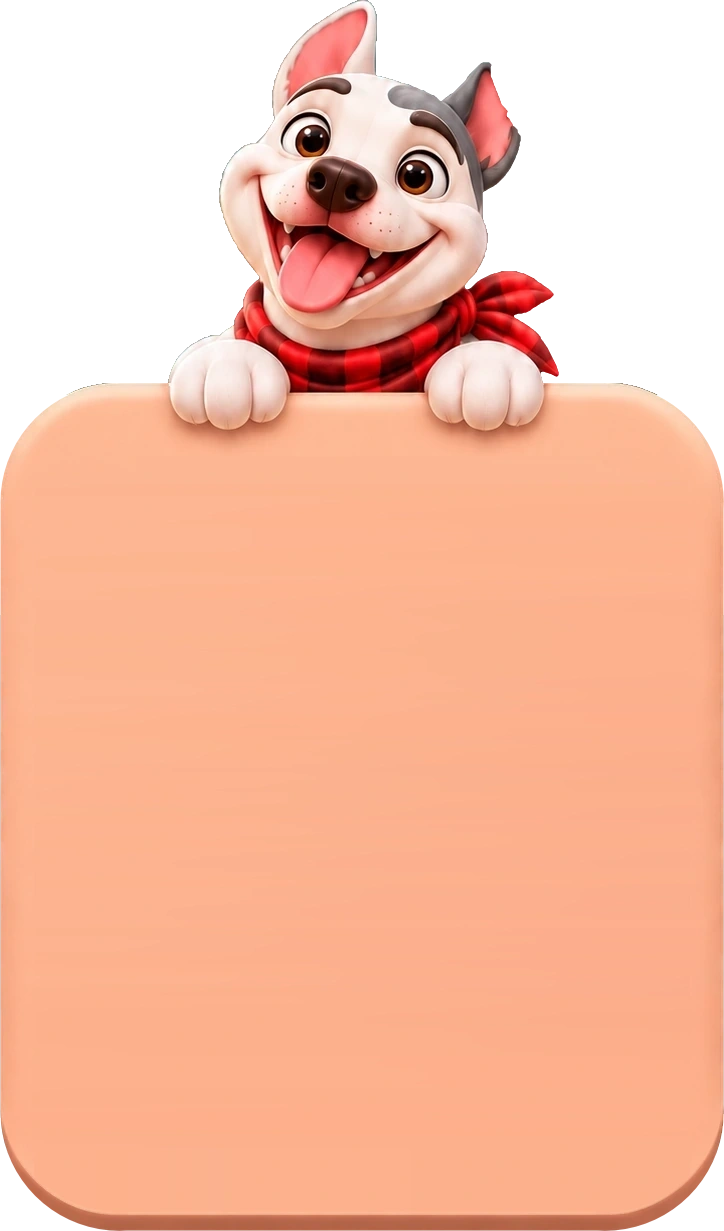
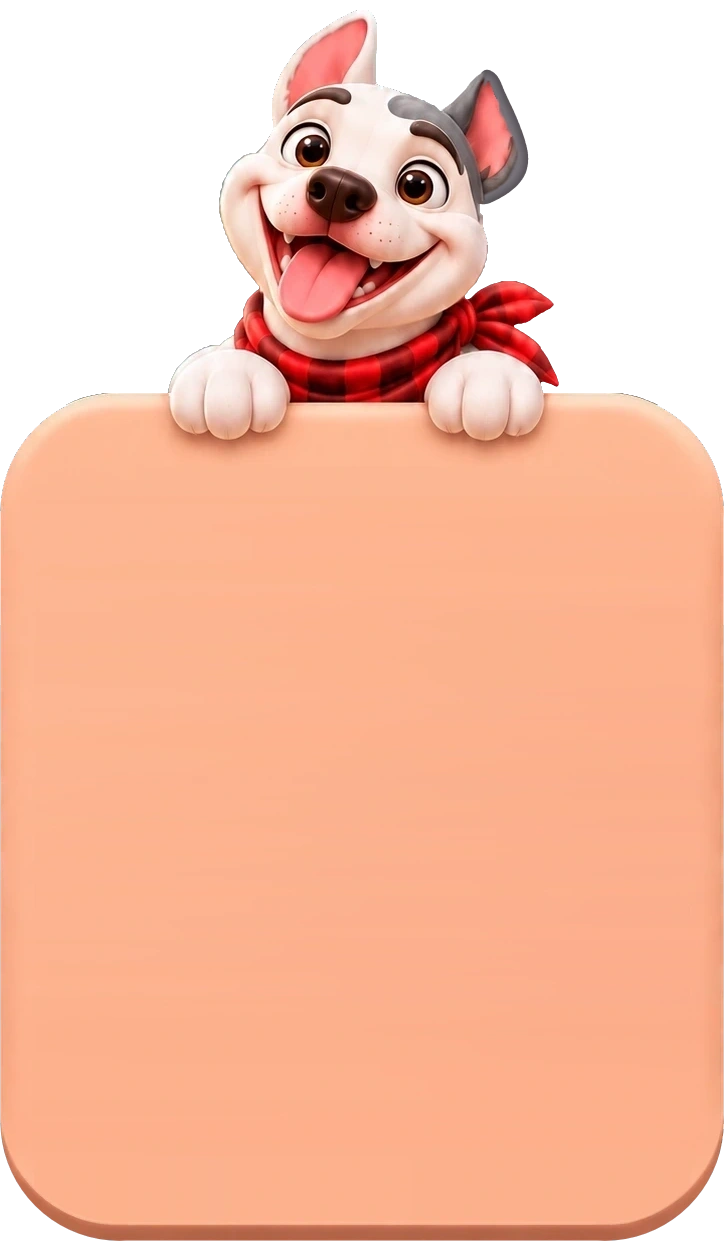
Peach cards: titles clear Rambo's paws; right ear grey rim rebuilt, left ear tip no longer clipped
Claude-Session: https://claude.ai/code/session_01HqXo8oXM9XTGkWGnUkjv9K

diff --git a/pop_kit.js b/pop_kit.js
@@ -235,8 +235,8 @@ window.g2results=function(stars,bones){open();
 #gp .pc3 .z3.dn{transform:scale(.95)}
 #gp .pc3 .z3::after{content:'';position:absolute;inset:0;border-radius:inherit;background:rgba(60,20,0,.15);opacity:0;transition:opacity 90ms}#gp .pc3 .z3.dn::after{opacity:1}
 #gp .pc3 .pulse3{animation:gpPulse 2.2s ease-in-out infinite}`;document.head.appendChild(css)}
-const C3={ready:[724,1231,104,304],lose:[737,1182,97,325],blank:[724,1231,104,0]};
-function card3(k){const [W,H,ox,oy]=C3[k];const p=h('div','pc3',card);const bg=h('img','bgc',p);bg.src='bovo11/pop3/'+k+'.webp?v=3';bg.alt='';
+const C3={ready:[724,1241,104,294],lose:[737,1182,97,325],blank:[724,1241,104,-10]};
+function card3(k){const [W,H,ox,oy]=C3[k];const p=h('div','pc3',card);const bg=h('img','bgc',p);bg.src='bovo11/pop3/'+k+'.webp?v=4';bg.alt='';
  const at=(el,x0,y0,x1,y1)=>{Object.assign(el.style,{left:(x0-ox)/W*100+'%',top:(y0-oy)/H*100+'%',width:(x1-x0)/W*100+'%',height:(y1-y0)/H*100+'%'});p.appendChild(el);return el};
  const zone=(x0,y0,x1,y1,label,fn)=>{const z=at(h('div','z3'),x0,y0,x1,y1);z.setAttribute('role','button');z.setAttribute('aria-label',label);
   z.addEventListener('pointerdown',()=>z.classList.add('dn'));['pointerup','pointerleave','pointercancel'].forEach(e=>z.addEventListener(e,()=>z.classList.remove('dn')));
@@ -282,33 +282,33 @@ function btn3(c,x0,y0,x1,y1,kind,label,fn,aria){const b=c.at(h('div','btn3 '+kin
  b.addEventListener('click',e=>{e.stopPropagation();if(once)return;once=true;if(fn()===false){once=false;return}snd('tap')});return b}
 const bone3=n=>`<span class="pr3"><img src="${KIT}ic_bone.webp?v=1" alt="">${n}</span>`;
 window.g2pause=function(){if(typeof S==='undefined'||!S||S.over)return;open('rise');const c=card3('blank');
- c.at(h('div','ov3 ttl3'),190,418,750,488).textContent='Paused';
+ c.at(h('div','ov3 ttl3'),190,440,750,505).textContent='Paused';
  const moved=S&&S.lv&&S.moves<S.lv.moves;
- const bx=c.at(h('div','box3'),150,500,780,720);
+ const bx=c.at(h('div','box3'),150,520,780,725);
  const st=STG();
- [['ic_music','Music','music',520],['ic_speaker','Sound','sounds',620]].forEach(([ic,lb,k,y])=>{const r=c.at(h('div','row3'),185,y,745,y+80);kimg(ic,'ic',r);h('span','',r).textContent=lb;
+ [['ic_music','Music','music',535],['ic_speaker','Sound','sounds',630]].forEach(([ic,lb,k,y])=>{const r=c.at(h('div','row3'),185,y,745,y+76);kimg(ic,'ic',r);h('span','',r).textContent=lb;
   let on=st[k]>0;const t=h('img','tg3',r);const draw=()=>{t.src='ui3/settings/'+(on?'tog_on':'tog_off')+'.webp?v=2'};draw();
   r.setAttribute('role','switch');r.setAttribute('aria-label',lb);
   r.addEventListener('click',e=>{e.stopPropagation();on=!on;if(!on){st['_'+k]=st[k];st[k]=0}else st[k]=st['_'+k]||(k=='music'?70:80);try{localStorage.setItem('gbb_settings',JSON.stringify(st))}catch(_){}window.BA&&BA.apply&&BA.apply();draw();snd('tap')})});
- btn3(c,170,755,760,905,'o','Resume',()=>close());
- btn3(c,190,925,740,1035,'c','Restart',()=>{if(moved&&window.Eco)Eco.loseHeart();close(true);if(window.Eco&&Eco.hearts()<1)return noLives();startLevel(S.li)});
- btn3(c,190,1050,740,1160,'c','Quit',()=>{if(moved&&window.Eco)Eco.loseHeart();close(true);BA.nav('map.html')});
- if(moved)c.at(h('div','ov3 note3'),170,1160,760,1196).textContent='Restarting or quitting now uses 1 life'};
+ btn3(c,170,755,760,895,'o','Resume',()=>close());
+ btn3(c,190,912,740,1018,'c','Restart',()=>{if(moved&&window.Eco)Eco.loseHeart();close(true);if(window.Eco&&Eco.hearts()<1)return noLives();startLevel(S.li)});
+ btn3(c,190,1032,740,1138,'c','Quit',()=>{if(moved&&window.Eco)Eco.loseHeart();close(true);BA.nav('map.html')});
+ if(moved)c.at(h('div','ov3 note3'),170,1145,760,1185).textContent='Restarting or quitting now uses 1 life'};
 function noLives3(){if(typeof S!=='undefined'&&S)S.over=true;open();const c=card3('blank');
- c.at(h('div','ov3 ttl3'),190,418,750,488).textContent='Out of Lives';
- const bx=c.at(h('div','box3'),150,500,780,740);const t=c.at(h('div','ov3 ttl3'),150,520,780,600);t.style.fontSize='calc(var(--pu)*20)';t.textContent='Next life in';
- const tm=c.at(h('div','ov3 big3'),150,600,780,720);tm.style.color='#17474d';
+ c.at(h('div','ov3 ttl3'),190,440,750,505).textContent='Out of Lives';
+ const bx=c.at(h('div','box3'),150,520,780,750);const t=c.at(h('div','ov3 ttl3'),150,535,780,610);t.style.fontSize='calc(var(--pu)*20)';t.textContent='Next life in';
+ const tm=c.at(h('div','ov3 big3'),150,610,780,730);tm.style.color='#17474d';
  const tick=()=>{if(!window.Eco)return;if(Eco.hearts()>0){close(true);if(S)S.over=false;showIntro();return}tm.textContent=Eco.fmt(Eco.nextIn());later(1000,tick)};tick();
  const PL=window.Eco?Eco.PRICE.lives:90;
- const go=btn3(c,170,780,760,930,'o','Refill Lives '+bone3(PL),()=>{if(!Eco.spend(PL)){go.style.animation='none';void go.offsetWidth;go.style.animation='kNope .36s';K.toast('You need '+PL+' bones. You have '+Eco.bones()+'.');return false}Eco.refillHearts();close(true);if(S)S.over=false;showIntro()},'Refill lives for '+PL+' bones');
- btn3(c,190,960,740,1070,'c','Back to Map',()=>{close(true);BA.nav('map.html')})}
+ const go=btn3(c,170,785,760,930,'o','Refill Lives '+bone3(PL),()=>{if(!Eco.spend(PL)){go.style.animation='none';void go.offsetWidth;go.style.animation='kNope .36s';K.toast('You need '+PL+' bones. You have '+Eco.bones()+'.');return false}Eco.refillHearts();close(true);if(S)S.over=false;showIntro()},'Refill lives for '+PL+' bones');
+ btn3(c,190,955,740,1065,'c','Back to Map',()=>{close(true);BA.nav('map.html')})}
 window.gpNoLives=noLives3;
 const _intro=window.showIntro;window.showIntro=function(){if(window.Eco&&Eco.hearts()<1&&!window.GBB_REVIEW_FREE)return noLives3();return _intro.apply(this,arguments)};
 window.gpBuy=function(k){open('rise');const c=card3('blank');
- c.at(h('div','ov3 ttl3'),190,418,750,488).textContent=BN[k];
- const bx=c.at(h('div','box3'),150,500,780,760);const ic=c.at(h('img','p'),355,515,575,705);ic.src=KIT+BI[k]+'.webp?v=1';Object.assign(ic.style,{position:'absolute',objectFit:'contain'});
- const t=c.at(h('div','ov3 note3'),160,705,770,755);t.style.fontSize='calc(var(--pu)*16)';t.style.color='#17474d';t.textContent="You're out of this booster";
+ c.at(h('div','ov3 ttl3'),190,440,750,505).textContent=BN[k];
+ const bx=c.at(h('div','box3'),150,520,780,770);const ic=c.at(h('img','p'),355,530,575,715);ic.src=KIT+BI[k]+'.webp?v=1';Object.assign(ic.style,{position:'absolute',objectFit:'contain'});
+ const t=c.at(h('div','ov3 note3'),160,715,770,765);t.style.fontSize='calc(var(--pu)*16)';t.style.color='#17474d';t.textContent="You're out of this booster";
  const P=window.Eco?Eco.PRICE.boost[k]:50;
- const b=btn3(c,170,790,760,940,'o','Buy 1 '+bone3(P),()=>{if(!Eco.spend(P)){b.style.animation='none';void b.offsetWidth;b.style.animation='kNope .36s';K.toast('You need '+P+' bones. You have '+Eco.bones()+'.');return false}if(typeof SAVE!=='undefined'&&SAVE.boost){SAVE.boost[k]=(SAVE.boost[k]||0)+1;typeof save==='function'&&save()}else Eco.addBoost(k,1);window.drawBoosters&&drawBoosters();close();K.toast(BN[k]+' added!')},'Buy one '+BN[k]+' for '+P+' bones');
+ const b=btn3(c,170,800,760,945,'o','Buy 1 '+bone3(P),()=>{if(!Eco.spend(P)){b.style.animation='none';void b.offsetWidth;b.style.animation='kNope .36s';K.toast('You need '+P+' bones. You have '+Eco.bones()+'.');return false}if(typeof SAVE!=='undefined'&&SAVE.boost){SAVE.boost[k]=(SAVE.boost[k]||0)+1;typeof save==='function'&&save()}else Eco.addBoost(k,1);window.drawBoosters&&drawBoosters();close();K.toast(BN[k]+' added!')},'Buy one '+BN[k]+' for '+P+' bones');
  btn3(c,190,970,740,1080,'c','Not Now',()=>close())};
 })();

diff --git a/game_new.html b/game_new.html
@@ -736,7 +736,7 @@ $('pz').onclick=()=>{if(!S)return;showOv(`<img class="ttl2" src="a/L_t_paused.we
 window.T={get S(){return S},findMove,localMatch,trySwap,startLevel,LEVELS,setFast:v=>FAST=v,tapCell};
 document.body.dataset.bt=Q.get('bt')||'cream70';document.getElementById('topw').style.transform=`translate(10px,${Q.get('hu')??14}px) scale(.9)`;if(Q.get('dof'))document.body.dataset.dof=Q.get('dof');if(Q.get('calm'))document.body.dataset.calm=Q.get('calm');document.body.dataset.hud=Q.get('hud')||'smoke';
 addEventListener("load",()=>startLevel(Math.max(0,(+Q.get("lv")||1)-1)));
-</script><script src="game_fx.js?v=25"></script><script src="rambo_live.js?v=23"></script><script src="game2_new.js?v=16"></script><script src="uikit/kit.js?v=11"></script><script src="pop_kit.js?v=22"></script><script src="polish.js?v=5"></script><script src="frameless.js?v=20"></script><script src="rambo_react.js?v=12"></script><script src="rambo_live2.js?v=1"></script><script src="booster_tip.js?v=1"></script><script src="game_fx2.js?v=2"></script><script src="game_fx3.js?v=5"></script><script src="win_fs.js?v=8"></script><script>(function(){const _sl=window.startLevel,lv0=+(new URLSearchParams(location.search).get('lv')||1);window.startLevel=function(n,o){if(Math.floor(n/10)!==Math.floor((lv0-1)/10))return location.replace('game_new.html?lv='+(n+1));return _sl(n,o)}})();
+</script><script src="game_fx.js?v=25"></script><script src="rambo_live.js?v=23"></script><script src="game2_new.js?v=16"></script><script src="uikit/kit.js?v=11"></script><script src="pop_kit.js?v=23"></script><script src="polish.js?v=5"></script><script src="frameless.js?v=20"></script><script src="rambo_react.js?v=12"></script><script src="rambo_live2.js?v=1"></script><script src="booster_tip.js?v=1"></script><script src="game_fx2.js?v=2"></script><script src="game_fx3.js?v=5"></script><script src="win_fs.js?v=8"></script><script>(function(){const _sl=window.startLevel,lv0=+(new URLSearchParams(location.search).get('lv')||1);window.startLevel=function(n,o){if(Math.floor(n/10)!==Math.floor((lv0-1)/10))return location.replace('game_new.html?lv='+(n+1));return _sl(n,o)}})();
 (function(){
 // ===== Which background each chapter uses (easy to swap) =====
 // s01 Teal woodland · s02 Blue backyard · s03 Rooftops · s04 Streetlamps · s05 Mountains · s06 Rolling hills
